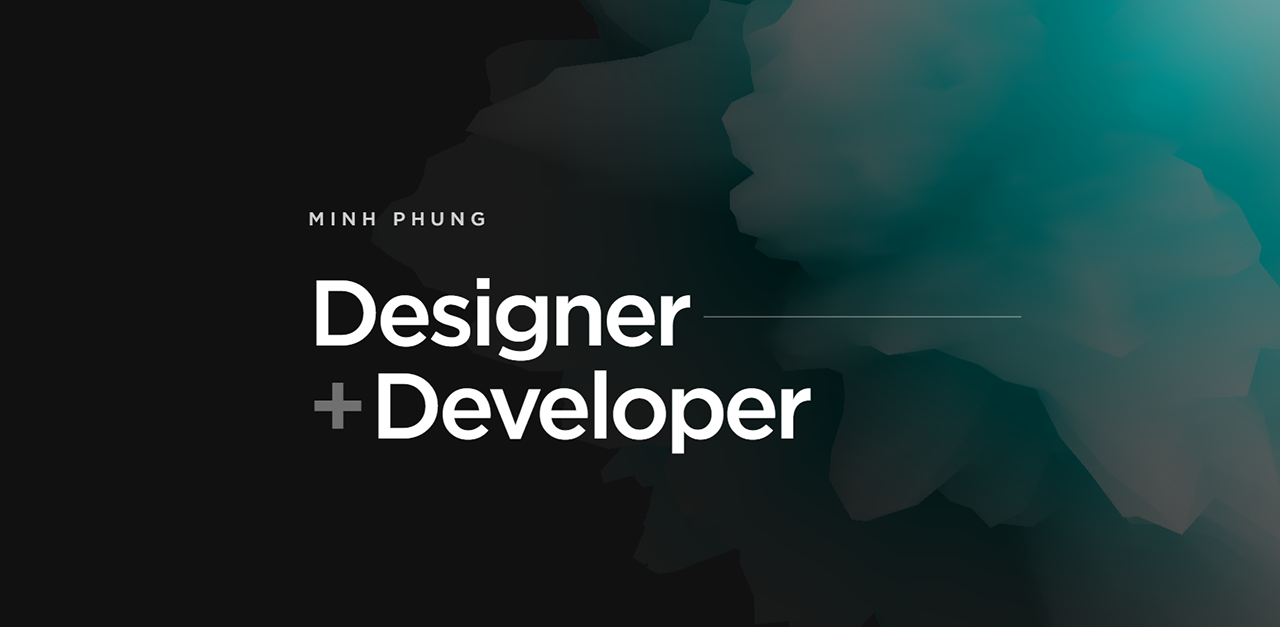
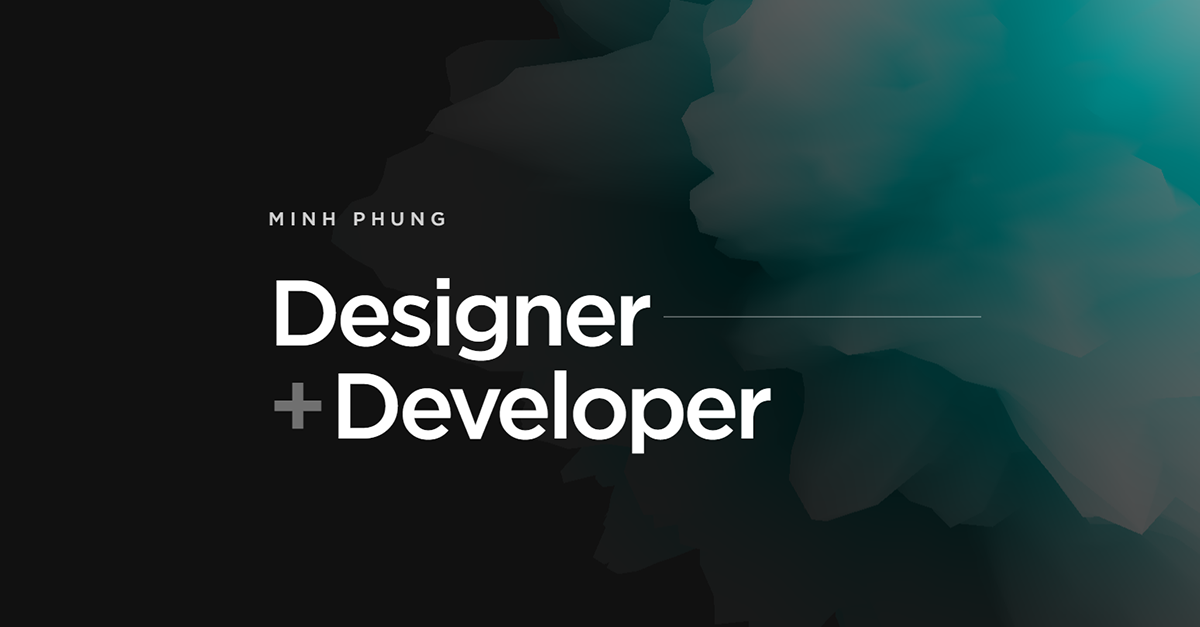
update

diff --git a/src/components/Meta/Meta.js b/src/components/Meta/Meta.js
@@ -17,7 +17,7 @@ export const Meta = ({ title, description, prefix = name, ogImage = defaultOgIma
       <meta property="og:image" content={ogImage} />
       <meta property="og:image:alt" content="Banner for the site" />
       <meta property="og:image:type" content="image/png" />
-      <meta property="og:image:width" content="1280" />
+      <meta property="og:image:width" content="1200" />
       <meta property="og:image:height" content="627" />
 
       <meta property="og:title" content={titleText} />

diff --git a/.storybook/manager-head.html b/.storybook/manager-head.html
@@ -20,7 +20,7 @@
 
 <meta property="og:image" content="https://phungvanminh.com/social-image.png" />
 <meta property="og:image:type" content="image/png" />
-<meta property="og:image:width" content="1280" />
+<meta property="og:image:width" content="1200" />
 <meta property="og:image:height" content="627" />
 <meta property="og:image:alt" content="Banner for the site" />
 
